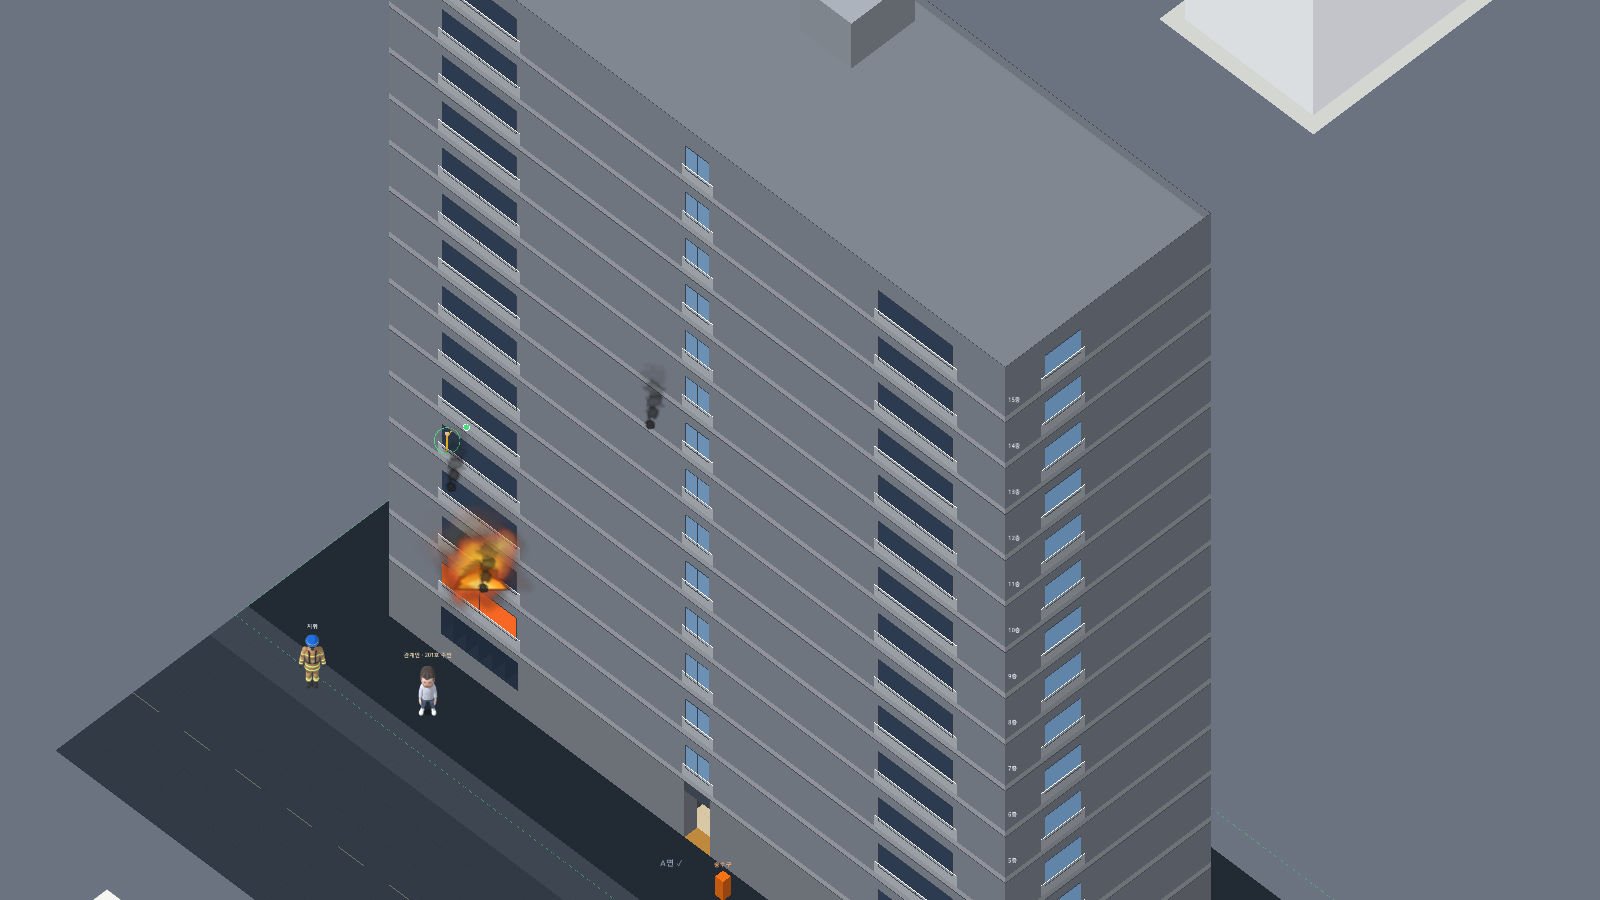
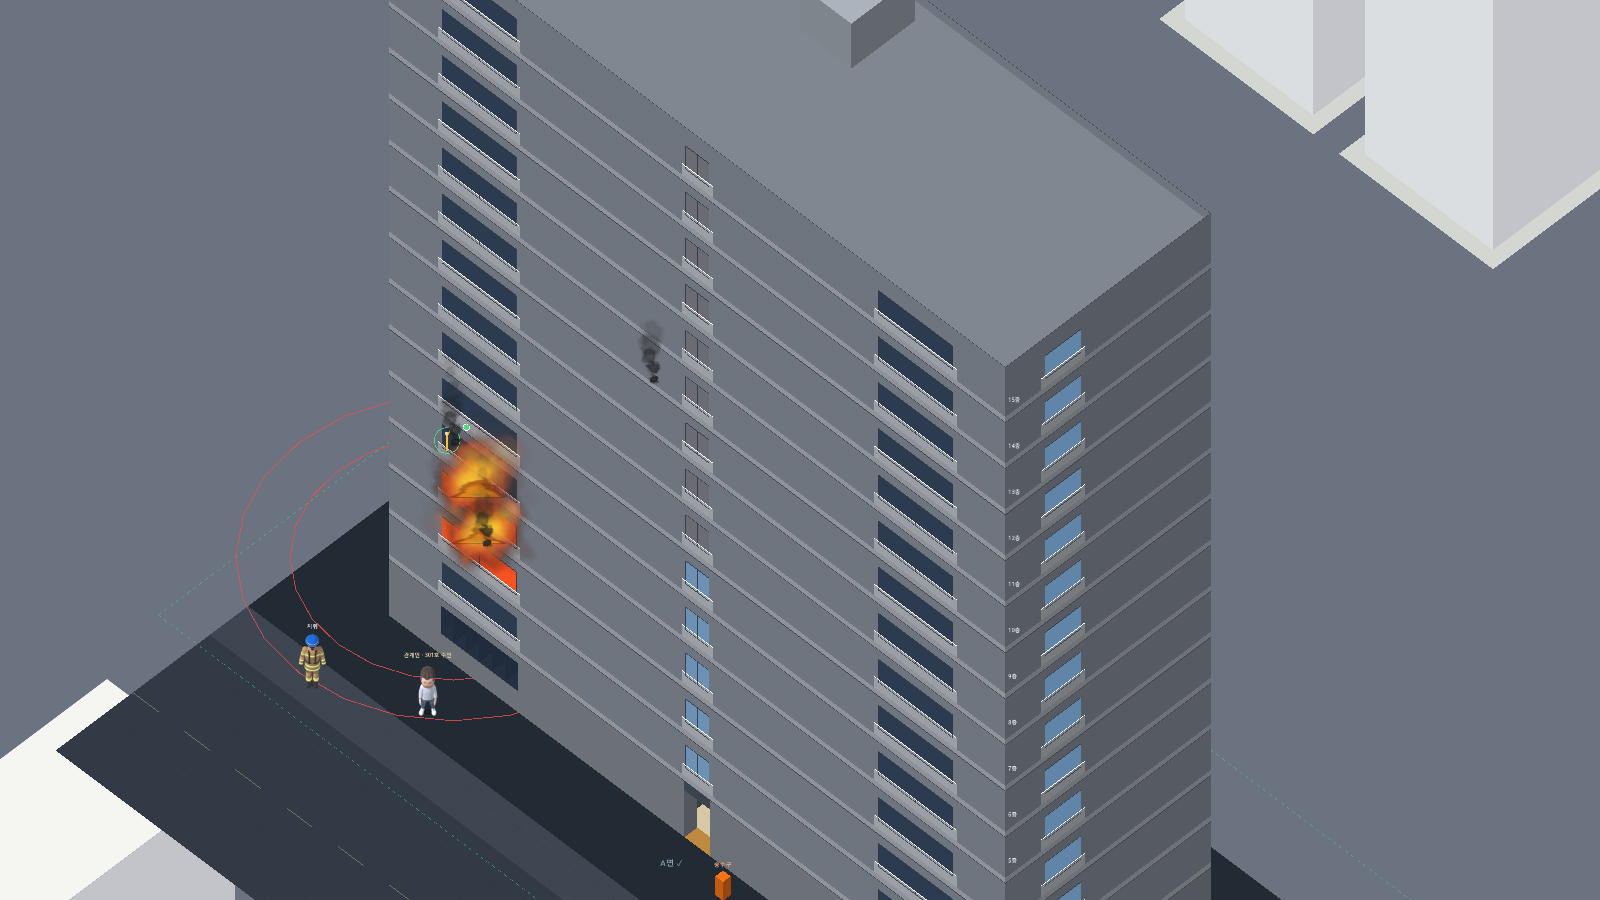
F01: 지금 층 바탕 무채색 + 움직이는 것만 색 겹, 짝 층 불투명 흑백(어둡게), 불난 방도 위층 비침

diff --git a/docs/decisions.md b/docs/decisions.md
@@ -102,3 +102,4 @@
 | 2026-11-12 | F01 | 인형집·위층 표시·대원 가림 | 앞 바깥벽 없앰(문은 서 있고 창은 바닥 높이 창틀·유리로), 위층 표시: 모서리 세로 안내 점선 + 바닥판 띠 + 아래층에 드리운 그림자, 아래층 대원·발견한 요구조자 둘레만 위층을 30%로(셰이더) | 사용자 결정 — 인형집 표준(심즈·폴아웃 셸터), 분해도 안내선, 디아블로·Zomboid식 가림 처리 |
 | 2026-11-12 | F01 | 짝 층·앞벽 자리·실내 벽 두께 | 비켜 놓은 짝 층 25% + 층 이름표(지금 층 표시), 없앤 앞벽 자리는 바닥선 실선·꼭대기와 모서리 반투명 점선, 실내 벽·실내 문 두께 = 칸의 0.34(바깥벽의 1/3), 이음새 끝면 생략, 벽 칸 바닥은 보통 바닥색 | 사용자 결정 |
 | 2026-11-12 | F01 | 짝 층 흑백·모서리 기둥 | 짝 층 50% + 흑백(셰이더), 그 층의 불·연기·사람은 위에 원래 색으로 따로 그림(PartnerLive). 없앤 앞벽은 건물 바깥 모서리에만 굵은 세로 점선 기둥(80%), 벽 중간 세로선 없앰 | 사용자 결정 (가) — 흑백은 '작업하지 않는 층' 표준 표시, 불·대원은 놓치면 안 되는 정보 |
+| 2026-11-12 | F01 | 정적인 것은 무채색, 움직이는 것만 색 | 지금 층도 두 겹: 바탕(바닥·벽·가구·문)은 색 85% 빼기, 그 위 색 겹(CurrentLive)에 대원·요구조자·지휘관·차량·불·연기·수관·구역·경로를 원래 색으로. 짝 층은 반투명 없이 흑백 + 밝기 72%. 겹치는 곳은 대원·요구조자·불난 방 둘레만 위층을 비침 | 사용자 결정 — 지금 층에서 불·대원이 배경 색에 묻히던 문제. 프로스트펑크·디비전 전술지도처럼 배경은 무채색, 행동 요소만 색 |
